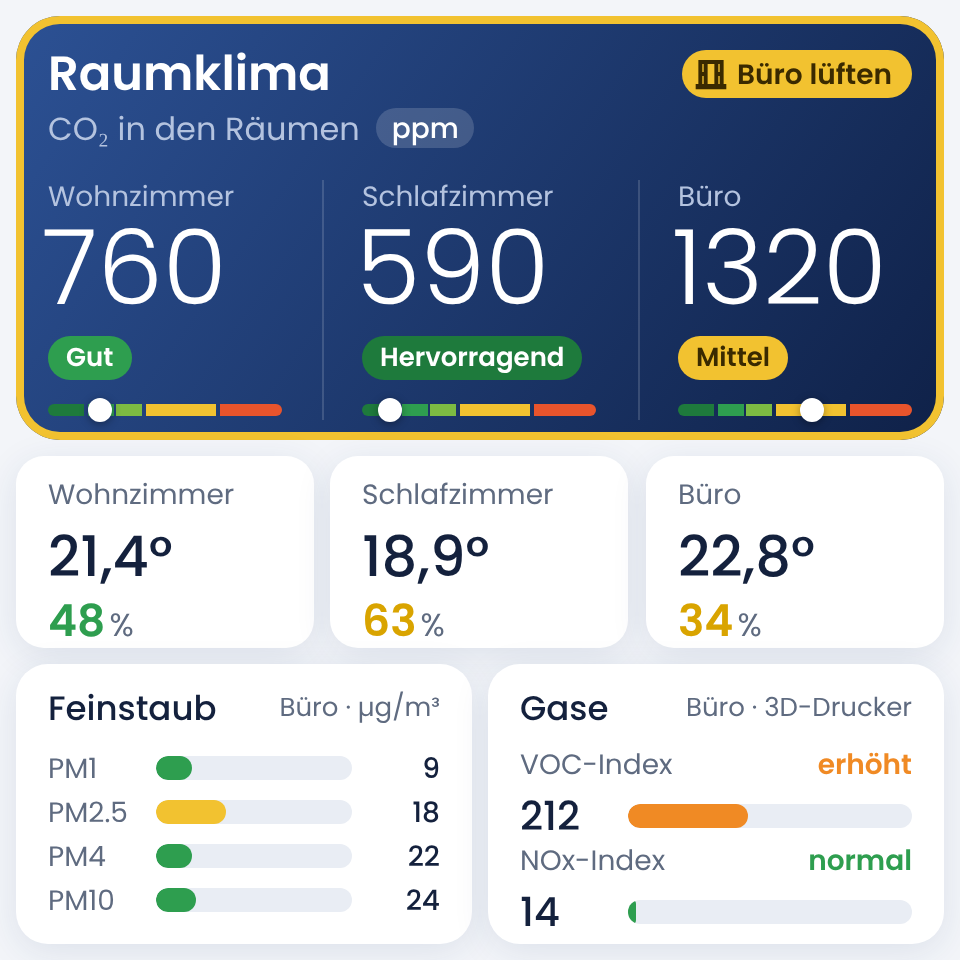
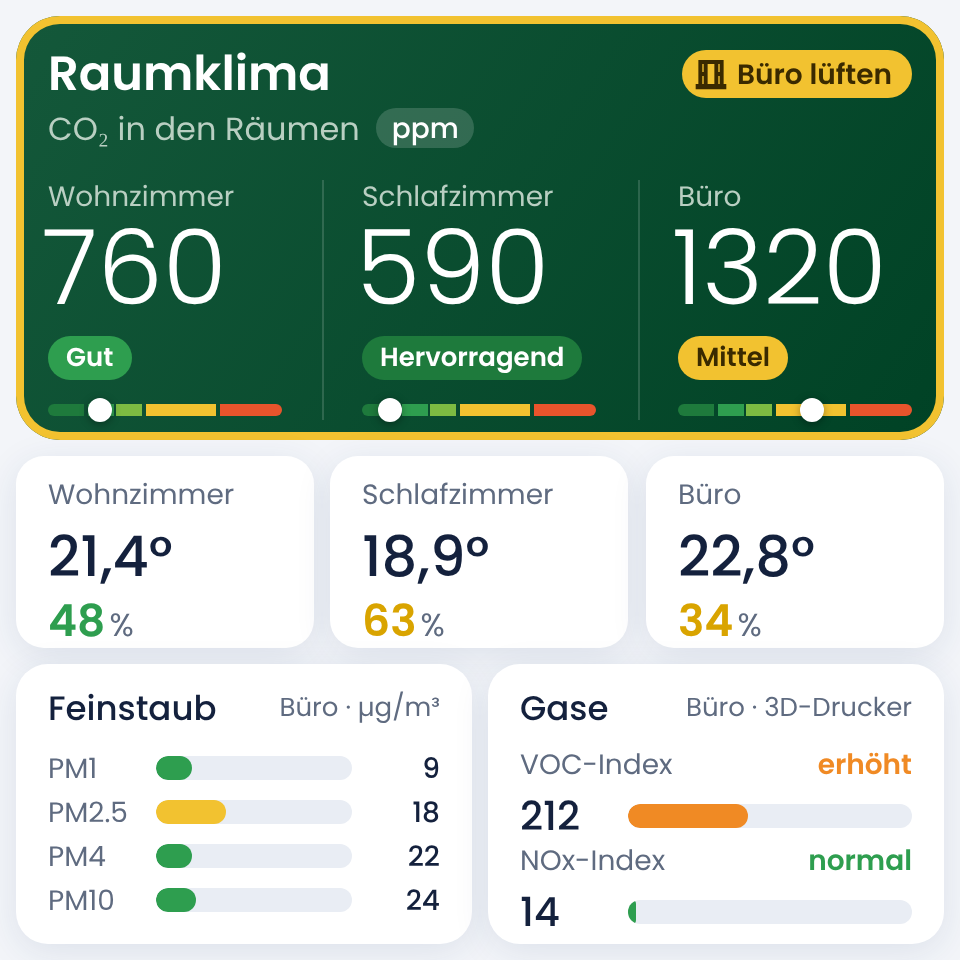
Wetter-Display: British Racing Green mit Gold, Seitenwechsel per Tippen, Regenwerte ohne Umbruch
Claude-Session: https://claude.ai/code/session_01XyYJMvyhXZyzdb4z9FkCN6

diff --git a/eigenes-dashboard/werkzeuge/yaml_bauen.py b/eigenes-dashboard/werkzeuge/yaml_bauen.py
@@ -35,10 +35,11 @@ BADGE = 86
 BADGE_OFF = round(58 / 140 * BILD)  # 61
 
 # ---- Farben
-BG, CARD, INK, MUTED, BLUE = "0xF3F5F9", "0xFFFFFF", "0x14213D", "0x5F6B80", "0x2F6FED"
-PANEL_TAG, PANEL_NACHT = ("0x2C5194", "0x0F2148"), ("0x1B2D57", "0x070F26")
-PMUTED, SONNE = "0xB4C3DF", "0xFFD27A"
-LINIE, TRACK, FILL = "0x1E3A6E", "0x2F6FED", "0x5B8FF5"
+BG, CARD, INK, MUTED, GOLD = "0xF3F5F9", "0xFFFFFF", "0x14213D", "0x5F6B80", "0xB8862B"
+# Panel in British Racing Green, Akzente in Gold
+PANEL_TAG, PANEL_NACHT = ("0x14583A", "0x004225"), ("0x0B3A26", "0x021A10")
+PMUTED, SONNE = "0xB9CFC2", "0xFFD27A"
+LINIE, TRACK, FILL = "0x6B5420", "0xB8862B", "0xD4A548"
 
 COND = ["F0599", "F0594", "F0595", "F0590", "F0591", "F0592", "F0593", "F067E", "F0596", "F0597", "F0598",
         "F067F", "F059D", "F059E", "F0F2F"]
@@ -176,6 +177,7 @@ esphome:
       - light.turn_on:
           id: hintergrundlicht
           brightness: 80%
+      - script.execute: seite_weiter
 
 esp32:
   board: esp32-s3-devkitc-1
@@ -340,13 +342,15 @@ w("""  # Raumklima: der Raum mit dem meisten CO2 bestimmt Hinweis und Rahmen, ab
           else:
             - lvgl.widget.hide: [rahmen_innen, pill_innen]
 
-# alle ${seitenwechsel} zwischen Wetter und Raumklima wechseln
-interval:
-  - interval: ${seitenwechsel}
+  # alle ${seitenwechsel} zwischen Wetter und Raumklima wechseln; ein Tippen wechselt sofort und startet die Zeit neu
+  - id: seite_weiter
+    mode: restart
     then:
+      - delay: ${seitenwechsel}
       - lvgl.page.next:
           animation: MOVE_LEFT
           time: 400ms
+      - script.execute: seite_weiter
 """)
 
 w(open(HW).read())
@@ -458,7 +462,7 @@ for d in range(5):
             text: !lambda 'return wx::deg(wx::part(x, 2));'
         - lvgl.label.update:
             id: lbl_regen_{d}
-            text: !lambda 'return wx::rain(wx::part(x, 4), wx::part(x, 5));'
+            text: !lambda 'return wx::rain_value(wx::part(x, 4), wx::part(x, 5));'
         - lvgl.label.update:
             id: lbl_icon_{d}
             text: !lambda 'return wx::icon(wx::part(x, 1));'
@@ -468,6 +472,9 @@ for d in range(5):
             text: !lambda 'return wx::part(x, 0);'""")
     if d == 0:
         w("""        - lvgl.label.update:
+            id: lbl_legende_einheit
+            text: !lambda 'auto u = wx::rain_unit(wx::part(x, 4), wx::part(x, 5)); return u.empty() ? std::string("%") : u;'
+        - lvgl.label.update:
             id: lbl_hochtief
             text: !lambda 'return "Hoch " + wx::deg(wx::part(x, 2)) + " · Tief " + wx::deg(wx::part(x, 3));'
         - lvgl.label.update:
@@ -707,7 +714,7 @@ for k, (name, ic, titel, unit, tid) in enumerate(tiles):
                         pad_bottom=3))
     kids = [label(C, tid, P, y(11, 16, 14), titel, "f_14", MUTED),
             row(C, None, P - 1, 28, [
-                label(C + 8, None, None, None, ic, "i_ui", BLUE, pad_right=3, pad_bottom=4),
+                label(C + 8, None, None, None, ic, "i_ui", GOLD, pad_right=3, pad_bottom=4),
                 label(C + 8, f"lbl_{name}", None, None, "--", "f_wert", INK),
                 unit_label], 3, cross="END")]
     w(box(I, f"kachel_{name}", x, TILE_Y, COL, TILE_H, TILE, kids))
@@ -721,7 +728,7 @@ def kopf(titel, rechts):
 
 legende = [widget("obj", C + 8, dict(width=10, height=3, radius=2, bg_color=LINIE, bg_opa="COVER", border_width=0)),
            label(C + 8, None, None, None, "Temp", "f_13", MUTED),
-           label(C + 8, None, None, None, "%", "f_13m", BLUE, pad_left=6),
+           label(C + 8, "lbl_legende_einheit", None, None, "%", "f_13m", GOLD, pad_left=6),
            label(C + 8, None, None, None, "Regen", "f_13", MUTED)]
 kids = kopf("5 Tage", legende)
 kids.append(box(C, None, P, 106, CARD2 - 2 * P, 1, dict(bg_color=LINIE, bg_opa="14%", border_width=0, radius=0)))
@@ -731,26 +738,28 @@ kids.append(widget("line", C, dict(id="kurve", points=f"[{pts}]", line_color=LIN
 for d in range(5):
     cx = round(16 + 39.2 * (d + .5))
     heute = d == 0
-    kids.append(box(C, f"punkt_{d}", cx - 5, 75, 10, 10, dict(radius=5, bg_color=BLUE if heute else CARD,
-                                                              bg_opa="COVER", border_width=3, border_color=BLUE)))
-    kids.append(label(C, f"lbl_hoch_{d}", cx - 20, 50, "", "f_16m", BLUE if heute else INK, width=40, align="CENTER"))
-    kids.append(label(C, f"lbl_regen_{d}", cx - 20, y(111, 18, 13), "", "f_13m", BLUE, width=40, align="CENTER"))
-    kids.append(label(C, f"lbl_icon_{d}", cx - 20, 128, "", "i_tag", MUTED, width=40, align="CENTER"))
+    kids.append(box(C, f"punkt_{d}", cx - 5, 75, 10, 10, dict(radius=5, bg_color=GOLD if heute else CARD,
+                                                              bg_opa="COVER", border_width=3, border_color=GOLD)))
+    kids.append(label(C, f"lbl_hoch_{d}", cx - 20, 50, "", "f_16m", GOLD if heute else INK, width=40, align="CENTER"))
+    kids.append(label(C, f"lbl_regen_{d}", cx - 20, 106, "", "f_13m", GOLD, width=40, align="CENTER",
+                      long_mode="CLIP"))
+    kids.append(label(C, f"lbl_icon_{d}", cx - 20, 131, "", "i_tag", MUTED, width=40, align="CENTER"))
     kids.append(label(C, f"lbl_name_{d}", cx - 22, y(149, 18, 14), "", "f_14m" if heute else "f_14",
-                      BLUE if heute else MUTED, width=44, align="CENTER"))
+                      GOLD if heute else MUTED, width=44, align="CENTER"))
 w(box(I, "karte_tage", M, CARD_Y, CARD2, CARD_H, CARDSTYLE, kids))
 
 kids = kopf("Regen", [label(C + 8, None, None, None, "nächste Stunden", "f_13", MUTED)])
 inner = CARD2 - 2 * P
-bar_w = inner - 44 - 34 - 20
+WERT_W = 56  # "0,3 mm" ist 53 px breit (Poppins 500, 14 px)
+bar_w = inner - 44 - WERT_W - 20
 for h in range(5):
     r = 50 + h * 24
     kids.append(label(C, f"lbl_std_{h}", P, y(r, 16, 14), "", "f_14", MUTED, width=44))
     kids.append(widget("bar", C, dict(id=f"bar_std_{h}", x=P + 54, y=r + 2, width=bar_w, height=12, min_value=0,
                                       max_value=100, value=0, radius=6, bg_color=TRACK, bg_opa="12%",
                                       indicator="{radius: 6, bg_color: " + FILL + ", bg_opa: COVER}")))
-    kids.append(label(C, f"lbl_std_wert_{h}", P + 54 + bar_w + 10, y(r, 16, 14), "", "f_14m", INK, width=34,
-                      align="RIGHT"))
+    kids.append(label(C, f"lbl_std_wert_{h}", P + 54 + bar_w + 10, y(r, 16, 14), "", "f_14m", INK, width=WERT_W,
+                      align="RIGHT", long_mode="CLIP"))
 w(box(I, "karte_regen", M + CARD2 + G, CARD_Y, CARD2, CARD_H, CARDSTYLE, kids))
 
 # ================================================================ Seite 2: Raumklima

diff --git a/eigenes-dashboard/README.md b/eigenes-dashboard/README.md
@@ -2,7 +2,8 @@
 
 Ein eigenständiges Dashboard für das **Guition ESP32-S3-4848S040** (4 Zoll, 480 × 480, Touch), direkt mit ESPHome
 und LVGL gebaut. Es braucht weder Tessera noch das ESP-Screen-Manager-Add-on. Es hat zwei Seiten, Wetter und
-Raumklima, und wechselt alle 45 Sekunden zwischen ihnen (`seitenwechsel` oben in `wetter-display.yaml`).
+Raumklima, und wechselt alle 45 Sekunden zwischen ihnen (`seitenwechsel` oben in `wetter-display.yaml`). Ein Tippen
+aufs Display wechselt sofort die Seite; die 45 Sekunden beginnen dann neu.
 
 ![Entwurf bei Tag](vorschau-tag.png) ![Entwurf bei Nacht mit Warnung](vorschau-nacht.png)
 ![Entwurf Raumklima](vorschau-innen.png)
@@ -12,7 +13,7 @@ das kann um wenige Pixel abweichen.*
 
 ## Was das Display zeigt
 
-- **Panel oben** (tagsüber blau, nachts dunkler): Ort, Datum und Kalenderwoche, die Temperatur, Sonnenaufgang und
+- **Panel oben** (British Racing Green, nachts dunkler; Akzente in Gold): Ort, Datum und Kalenderwoche, die Temperatur, Sonnenaufgang und
   -untergang mit „vor/in … Std“, ein großes Wetterbild, der Wettertext, Hoch und Tief von heute.
 - **Nachts** zeigt das große Bild die Mondphase (8 Stufen, auf dem Display berechnet) und klein daneben das aktuelle
   Wetter, z. B. eine Regenwolke.
@@ -66,7 +67,8 @@ Namen eintragen. Fehlt ein Sensor, zeigt das Display „--“.
 
 1. **Vorhersage vom DWD**: die Integration „DWD Weather“ über HACS installieren und die nächstgelegene Station
    wählen. Sie legt eine Wetter-Entität an (z. B. `weather.<station>`). Met.no geht auch, dann ohne
-   Regenwahrscheinlichkeit.
+   Regenwahrscheinlichkeit. Die Option „Erzwinge die stündliche Aktualisierung“ der DWD-Integration ausgeschaltet
+   lassen: Mit ihr fehlt die Regenwahrscheinlichkeit, und das Display zeigt Regen in Millimetern.
 2. **Warnungen vom DWD**: unter Einstellungen → Geräte & Dienste → Integration hinzufügen → „Deutscher Wetterdienst
    (DWD) Weather Warnings“ den Warnbereich eintragen (für Sassenberg der Kreis Warendorf). Gebraucht wird der Sensor
    der *aktuellen* Warnstufe.
